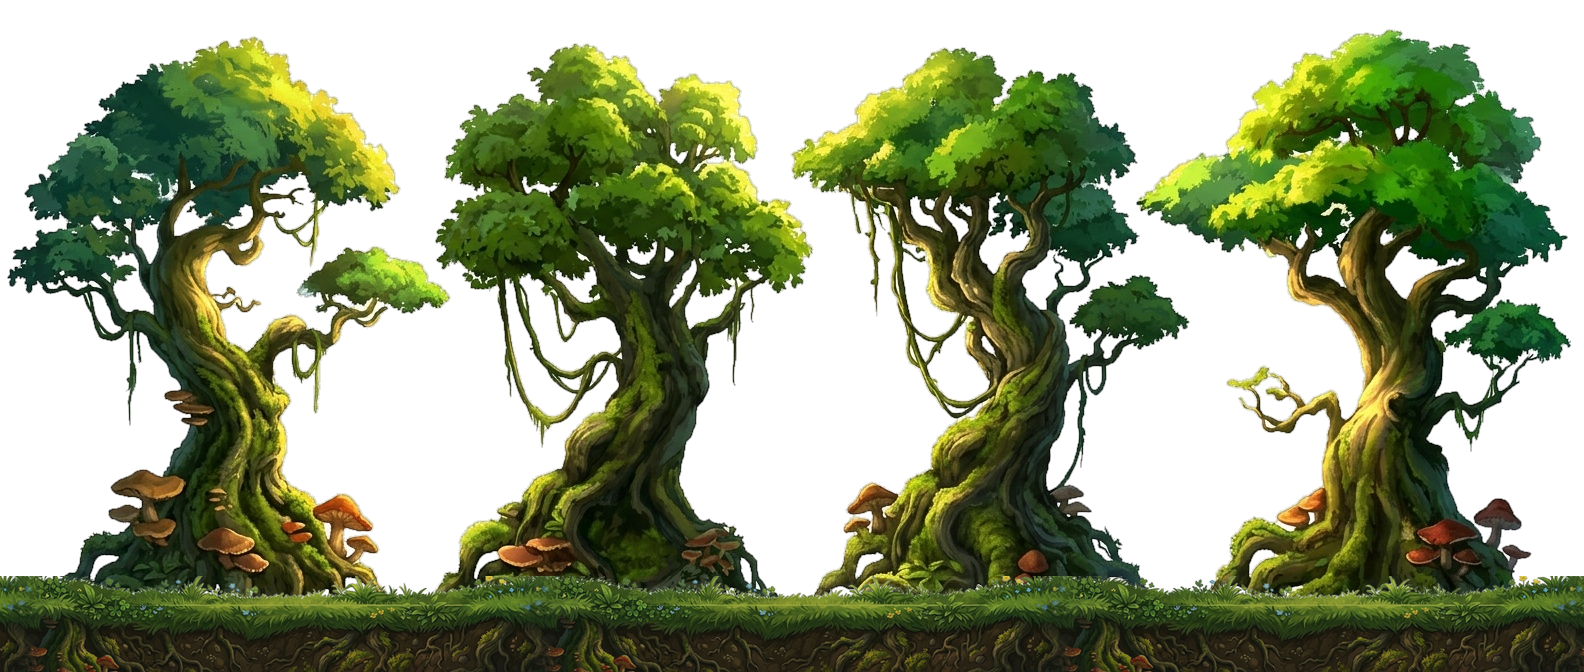
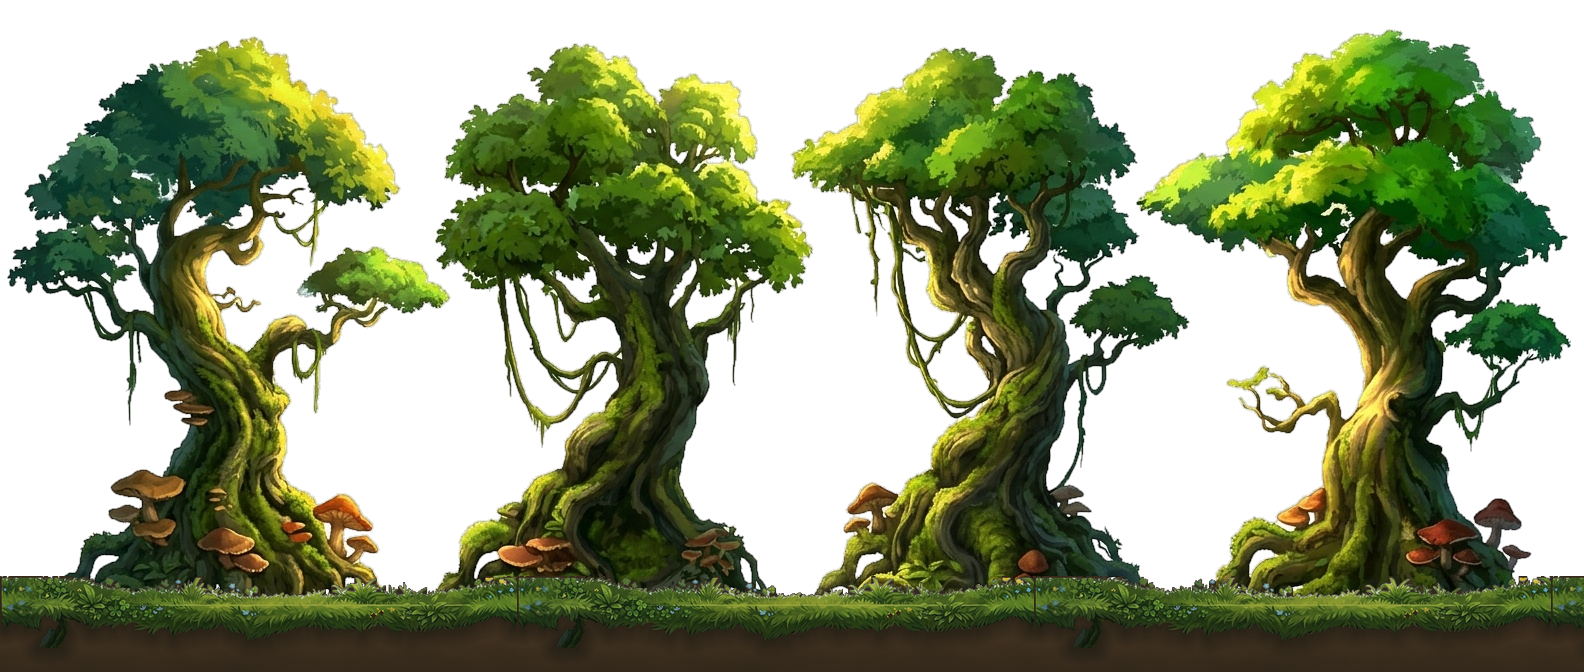
Embaixo do chão só terra lisa (sem raízes, pedras ou cogumelos), sem emendas entre blocos
- chão do bosque, da mina e da vila: faixa de cima mantida, terra pintada lisa embaixo (tools/plain_dirt.py)
- terra funda desenhada em degradê contínuo até a terra do fundo (sem listras nem degraus)
- sem raízes/pedras desenhadas na terra, sem fresta entre blocos de chão vizinhos

Claude-Session: https://claude.ai/code/session_01W4uJMM5KLRnk3edeqa4wjD

diff --git a/tools/plain_dirt.py b/tools/plain_dirt.py
@@ -1,0 +1,68 @@
+#!/usr/bin/env python3
+"""Terra lisa embaixo do chão: mantém só a faixa de cima (grama / trilho / calçamento) e troca o resto
+por terra pintada simples, sem raízes, pedras ou cogumelos (pedido do Alan: nada de poluição visual).
+A terra tem só variação suave de tom (pinceladas grandes), emenda nas laterais e escurece para baixo.
+Uso como módulo: plain(im, keep_mask, base_rgb) -> imagem nova.
+Uso direto: plain_dirt.py  (refaz chao_mina.png e chao_vila.png a partir das cópias antigas)"""
+import os, shutil
+import numpy as np
+from PIL import Image
+from scipy import ndimage as nd
+
+ROOT = os.path.dirname(os.path.dirname(os.path.abspath(__file__)))
+
+
+def dirt(w, h, base, seed=7):
+    rng = np.random.default_rng(seed)
+    b = np.array(base, float)
+    # pinceladas grandes e suaves (ruído desfocado que emenda nas laterais)
+    n1 = nd.gaussian_filter(rng.standard_normal((h, w)), (5, 14), mode='wrap')
+    n2 = nd.gaussian_filter(rng.standard_normal((h, w)), (2, 5), mode='wrap')
+    n1 /= max(1e-6, np.abs(n1).max())
+    n2 /= max(1e-6, np.abs(n2).max())
+    v = 1 + n1 * .07 + n2 * .035
+    a = np.ones((h, w, 3)) * b[None, None, :] * v[..., None]
+    # um pouco mais quente perto da superfície
+    ys = np.linspace(0, 1, h)[:, None, None]
+    a *= (1.04 - .1 * ys)
+    return a
+
+
+def plain(im, keep, base, shade=22):
+    """im: RGBA; keep: máscara (h, w) do que fica da arte original (grama, trilho...)."""
+    a = np.asarray(im.convert('RGBA')).astype(float)
+    h, w = keep.shape
+    d = dirt(w, h, base)
+    # sombra macia logo abaixo do que ficou por cima (a grama faz sombra na terra)
+    k = keep.astype(float)
+    below = np.zeros_like(k)
+    cov = np.maximum.accumulate((a[..., 3] > 10).astype(float), axis=0)   # tudo abaixo do topo do chão
+    dist = nd.distance_transform_edt(k < .5)
+    sh = np.clip(1 - dist / shade, 0, 1) * cov
+    d *= (1 - .45 * sh)[..., None]
+    out = np.zeros_like(a)
+    out[..., :3] = d
+    out[..., 3] = 255 * cov                         # terra só onde já é chão (abaixo do topo)
+    ka = (a[..., 3:4] / 255) * k[..., None]
+    out[..., :3] = a[..., :3] * ka + out[..., :3] * (1 - ka)
+    out[..., 3] = np.maximum(out[..., 3], a[..., 3] * k)
+    return Image.fromarray(np.clip(out, 0, 255).astype(np.uint8), 'RGBA')
+
+
+def top_band(im, rows):
+    a = np.asarray(im.convert('RGBA'))
+    keep = np.zeros(a.shape[:2], bool)
+    keep[:rows] = a[:rows, :, 3] > 10
+    return keep
+
+
+if __name__ == '__main__':
+    src = os.path.join(ROOT, 'tools', 'art_src')
+    for n, rows, base in (('chao_mina', 54, (78, 52, 34)), ('chao_vila', 80, (104, 66, 40))):
+        p = os.path.join(ROOT, 'assets', 'sprites', n + '.png')
+        old = os.path.join(src, n + '_antigo.png')
+        if not os.path.exists(old):
+            shutil.copy(p, old)
+        im = Image.open(old)
+        plain(im, top_band(im, rows), base).save(p)
+        print(n, 'ok')

diff --git a/tools/make_rl_forest.py b/tools/make_rl_forest.py
@@ -72,6 +72,20 @@ for y in range(100, 140):
     m = ca[y, :, :3].mean()
     ca[y, :, :3] *= min(1.6, ref / max(m, 1.0)) ** min(1.0, (y - 100) / 12.0)
 crop = Image.fromarray(np.clip(ca, 0, 255).astype(np.uint8), 'RGBA')
+# embaixo da grama só terra lisa (sem raízes, pedras ou cogumelos)
+import sys as _s
+_s.path.insert(0, os.path.dirname(os.path.abspath(__file__)))
+from plain_dirt import plain
+ca = np.asarray(crop).astype(int)
+yy = np.arange(ca.shape[0])[:, None]
+green = (ca[..., 1] > ca[..., 0] + 6) & (ca[..., 1] > ca[..., 2]) & (ca[..., 3] > 10)
+keep = (ca[..., 3] > 10) & ((yy < 40) | (green & (yy < 96)))
+keep = nd.binary_closing(keep, iterations=2) & (ca[..., 3] > 10)
+# só o que está ligado à faixa de grama de cima (musgo solto nas raízes sai)
+lb, nlb = nd.label(keep)
+top_ids = set(np.unique(lb[:36])) - {0}
+keep = np.isin(lb, list(top_ids)) & (yy < 84)
+crop = plain(crop, keep, (92, 60, 38))
 old = Image.open(os.path.join(ROOT, 'assets', 'sprites', 'chao.png'))
 if not os.path.exists(os.path.join(A, 'chao_antigo.png')):
     old.save(os.path.join(A, 'chao_antigo.png'))
